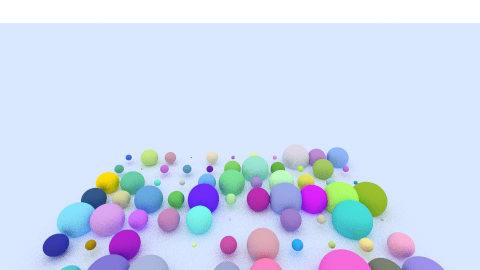
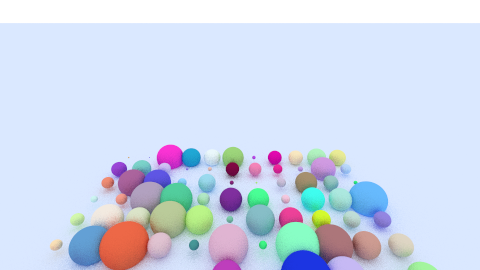
progress on parallelisation, but doesn't work

Changed region(s): [[0.0625, 0.5333, 0.9375, 1.0]]

diff --git a/src/cgg/Image.java b/src/cgg/Image.java
@@ -1,6 +1,8 @@
 package cgg;
 
 import java.util.ArrayList;
+import java.util.concurrent.Callable;
+import java.util.concurrent.ExecutionException;
 import java.util.concurrent.ExecutorService;
 import java.util.concurrent.Executors;
 import java.util.concurrent.Future;
@@ -41,7 +43,13 @@ public class Image {
   public void superSample(Sampler s, int abtastungen) {
     int cores = 10; // Runtime.getRuntime().availableProcessors();
     System.out.println("Using " + cores + " cores. " + "Available cores: " + Runtime.getRuntime().availableProcessors());
-    superSampleHelper(s, abtastungen);
+    try {
+      superSampleHelper(s, abtastungen);
+    } catch (InterruptedException e) {
+      e.printStackTrace();
+    } catch (ExecutionException e) {
+      e.printStackTrace();
+    }
     //ExecutorService pool = Executors.newFixedThreadPool(cores);
     
     /*int n = 10;
@@ -72,32 +80,34 @@ public class Image {
     }*/   
   }
 
-  private void superSampleHelper(Sampler s, int abtastungen) {
+  private void superSampleHelper(Sampler s, int abtastungen) throws InterruptedException, ExecutionException {
     for (int x = 0; x < width; x++) {      
       for (int y = 0; y < height; y++) {
         int n = PolkaDots.getDivider(abtastungen);
-        //Callable<Color> calculateOnePixel = new Callable<Color>() {
-        //  Color call() {
-        //    return s.getColor(x,y);
-        //  }
-        //};
-        //ExecutorService pool = Executors.newFixedThreadPool(1);
-        //Future<Color> pixel = pool.submit(calculateOnePixel);
-        //Color farbe = pixel.get();
-        Color farbe = s.getColor(x, y);
-        for (int xi = 0; xi < n; xi++){
-          for (int yi = 0; yi < n; yi++){
-            double rx = Random.random();
-            double ry = Random.random();
-            double xs = x + (xi + rx) / n;
-            double ys = y + (yi + ry) / n;
-            //Color farbe = pixel.get();
-            farbe = Color.add(farbe, s.getColor(xs, ys));
+        final int fx = x;
+        final int fy = y;
+        Callable<Color> calculateOnePixel = new Callable<Color>() {
+          public Color call() {
+            Color farbe = s.getColor(fx, fy);
+            for (int xi = 0; xi < n; xi++){
+              for (int yi = 0; yi < n; yi++){
+                double rx = Random.random();
+                double ry = Random.random();
+                double xs = fx + (xi + rx) / n;
+                double ys = fy + (yi + ry) / n;
+                //Color farbe = pixel.get();
+                farbe = Color.add(farbe, s.getColor(xs, ys));
+              }
+            }
+            return Color.divide(farbe, 100);
           }
-        }
-        farbe = Color.divide(farbe, 100);
+        };
+        ExecutorService pool = Executors.newFixedThreadPool(1);
+        Future<Color> pixel = pool.submit(calculateOnePixel);
+        Color farbe = pixel.get();
+        //Color farbe = s.getColor(x, y);        
         setPixel(x, y, farbe);
-        //pool.shutdown();
+        pool.shutdown();
       } 
     }
   }

diff --git a/src/a09/Main.java b/src/a09/Main.java
@@ -8,10 +8,7 @@ import cgtools.Color;
 import cgtools.Matrix;
 import cgtools.Random;
 import cgtools.Vector;
-import a06.Glass;
-import a06.Mirror;
 import a04.Plane;
-import a07.Cylinder;
 import a08.RecursionRaytracer2;
 import a08.Transformation;
 import a08.TransformationGroup;
@@ -46,16 +43,6 @@ public class Main {
       image.write(filename);
       System.out.println("Wrote image: " + filename);
 
-      /*Matrix m = Matrix.multiply(Matrix.rotation(Vector.xAxis, -25), Matrix.translation(Vector.point(0, 0, 30)), Matrix.translation(Vector.point(0, 5, 0)));
-      content.moveCamera(m);
-
-      image = new Image((int) width, (int) height);
-      image.superSample(content, ABTASTUNGEN_PRO_PIXEL);
-
-      final String filename2 = "doc/a08-2.png";
-      image.write(filename2);
-      System.out.println("Wrote image: " + filename2);*/
-
       end = System.currentTimeMillis();
 
       System.out.println("Rendertime: " + (end - start) / 1000 + " seconds || " + ((end - start) / 1000) / 60 + " minutes.");      
@@ -75,30 +62,4 @@ public class Main {
         }
         return scene;
     }
-
-    /*private static TransformationGroup forrest(TransformationGroup scene, int w, int h){
-        Shape stem = new Cylinder(Vector.point(0, 0.0, 0), 0.3, 2, new Mirror(Color.brown, true, 1.0));
-        Shape crown = new Sphere(Vector.point(0, 1.5, 0), 0.9, new DiffuseMaterial(Color.mint));
-        TransformationGroup tree = new TransformationGroup();
-        tree.add(stem);
-        tree.add(crown);
-        TransformationGroup temp = new TransformationGroup();
-        temp.setTransformation(new Transformation(Matrix.translation(Vector.point(0, 0, -5))));
-        temp.add(tree);
-
-        TransformationGroup temp2 = new TransformationGroup();
-        temp2.add(temp);
-        temp2.setTransformation(new Transformation(Matrix.translation(Vector.point(2, 0, 0))));
-        for (int i = -1 * w / 2; i <= w / 2; i += 2){
-            for (int j = -1 * h / 2; j <= h / 2; j += 2){
-                // Instancing caused bugs for some reason, probably call by reference / value mashup
-                TransformationGroup temp2 = new TransformationGroup();
-                temp2.add(temp);
-                temp2.setTransformation(new Transformation(Matrix.translation(Vector.point(i, 0, j))));
-                temp = temp2;
-            }
-        }
-        scene.add(temp2);
-        return scene;
-    }*/
 }
